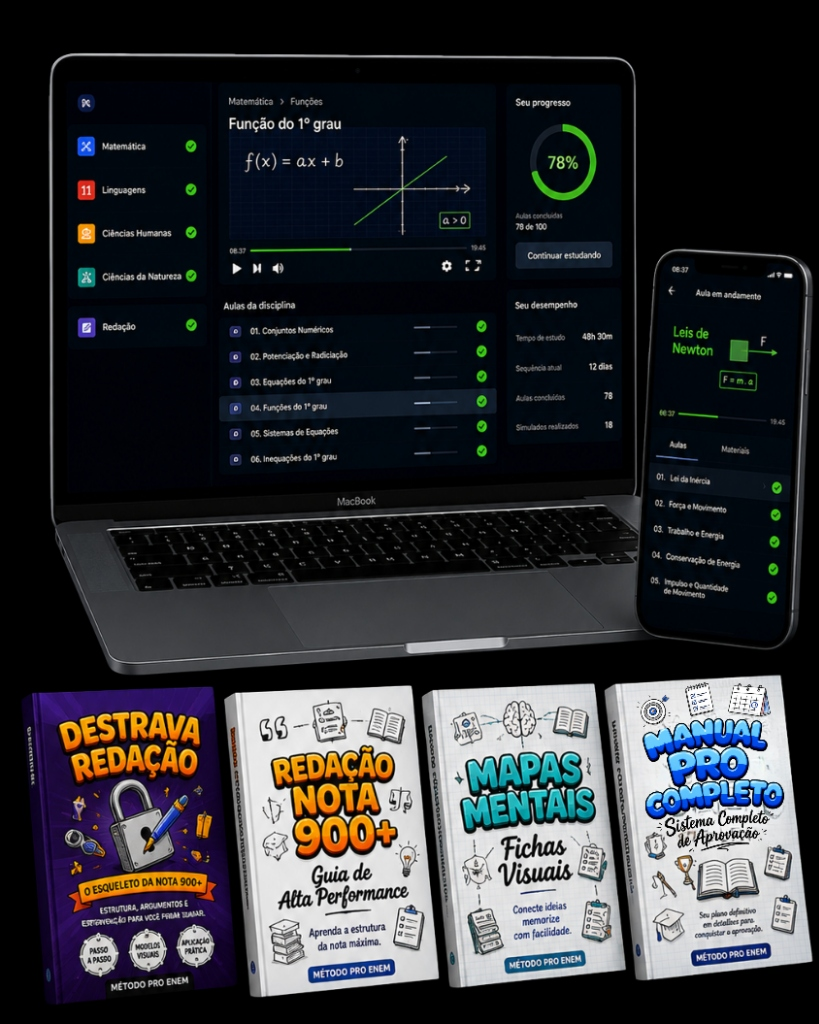
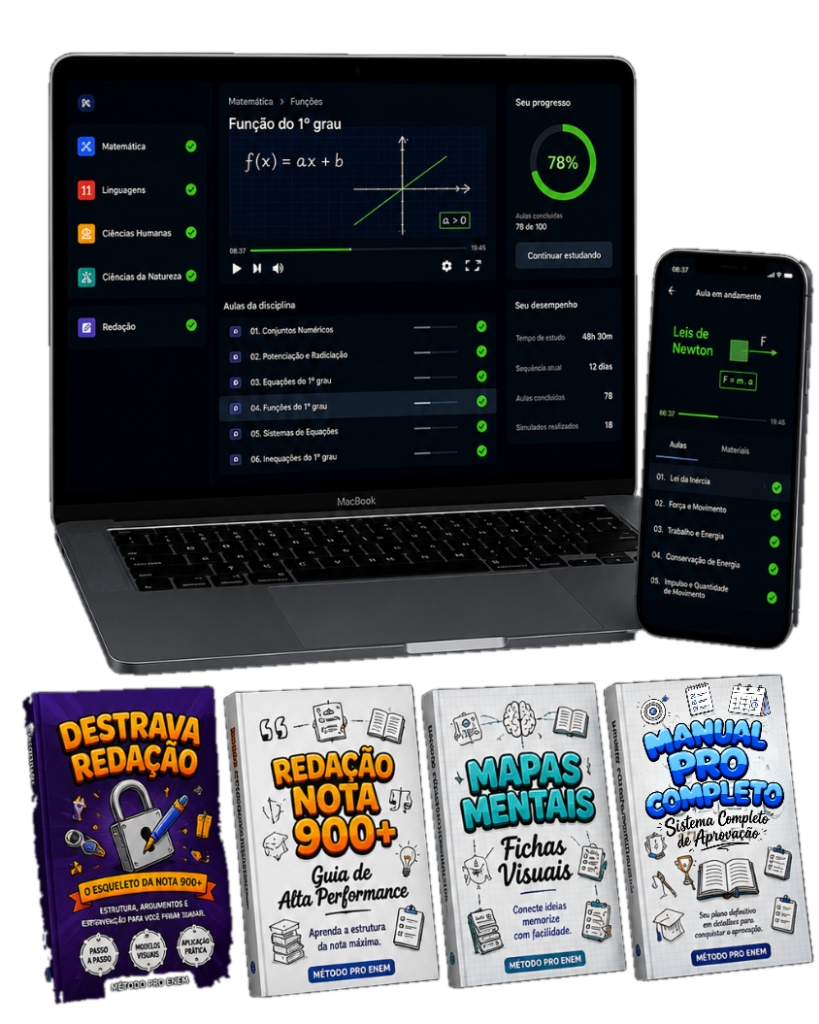
fix: converter imagem do mockup para png transparente e remover mix-blend-mode

Changed region(s): [[0.0, 0.0, 1.0, 1.0]]

diff --git a/index.html b/index.html
@@ -317,8 +317,10 @@ footer a{color:#9AA3B5}
   filter:blur(36px);z-index:0;
 }
 .hero-prod img, .hero-img{position:relative;z-index:1;width:100%;display:block;
-  filter:drop-shadow(0 26px 50px rgba(0,0,0,.55)); mix-blend-mode: screen;}
-@media(max-width:760px){.hero-prod{max-width:86%}}
+  filter:drop-shadow(0 26px 50px rgba(0,0,0,.55));}
+@media(max-width:760px){
+  .hero-prod{max-width:86%}
+}
 
 /* ---------- 1) FADE-IN + SLIDE-UP AO ROLAR ---------- */
 /* aplicado automático em toda <section> via script */